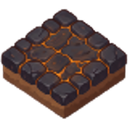
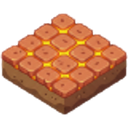
feat: cemetery tower grasp effect with hand animation and DoT HP bar
- Hand effect: translation from underground to surface (fixed scale, fixed
  mask clips below tile surface) instead of scaling/stretching
- Hand effect anchored to tile grid position, not enemy sprite
- HP bar now updates on DoT ticks via onEnemyDamaged callback
- Floating damage numbers shown on each DoT tick
- Volcano tile scale reduced to 0.75, tiles swapped (lava/obsidian)
- Asset size rules added to CLAUDE.md (256x256 towers, 128x128 tiles)

diff --git a/public/js/games/td/TDRenderer.js b/public/js/games/td/TDRenderer.js
@@ -91,8 +91,8 @@ export class TDRenderer {
     }
 
     async loadAssets() {
-        const enemyAssets = ['enemy_basic', 'enemy_fast', 'enemy_tank', 'enemy_boss', 'enemy_flying'];
-        const towerTypes = ['archer', 'cannon', 'ice', 'sniper', 'wind', 'cemetery'];
+        const enemyAssets = Object.keys(ENEMY_TYPES).map(t => `enemy_${t}`);
+        const towerTypes = Object.keys(TOWER_TYPES);
 
         // Load base enemy assets
         for (const name of enemyAssets) {
@@ -132,7 +132,7 @@ export class TDRenderer {
         } catch (e) { }
 
         const tileAssets = ['tile_grass', 'tile_path', 'castle', 'coin', 'heart', 'tree', 'tree_pine'];
-        const projAssets = ['proj_archer', 'proj_cannon', 'proj_ice', 'proj_sniper', 'proj_wind', 'proj_cemetery'];
+        const projAssets = ['proj_archer', 'proj_cannon', 'proj_ice', 'proj_sniper', 'proj_wind', 'proj_cemetery', 'hands_cemetery'];
         for (const name of [...tileAssets, ...projAssets]) {
             try {
                 const texture = await PIXI.Assets.load(`/images/td/${name}.png`);
@@ -411,8 +411,9 @@ export class TDRenderer {
             sprite.anchor.set(0.5, 0.85);
             const tRef = Math.max(TILE_WIDTH, TILE_HEIGHT);
             const tScale = (this.currentTheme && this.currentTheme.towerScale) || 1.0;
-            sprite.width = tRef * 1.1 * tScale;
-            sprite.height = tRef * 1.1 * tScale;
+            const displayScale = TOWER_TYPES[towerType]?.displayScale || 1.0;
+            sprite.width = tRef * 1.1 * tScale * displayScale;
+            sprite.height = tRef * 1.1 * tScale * displayScale;
             // Flip horizontally to compensate for mirrored iso projection
             sprite.scale.x *= -1;
             baseScaleX = sprite.scale.x;
@@ -815,45 +816,31 @@ export class TDRenderer {
         }
     }
 
-    createGraspBeam(tower, enemy) {
-        const s = this.mapScale;
-        const tIso = toIso(tower.x, tower.y);
-        const eIso = toIso(enemy.x, enemy.y);
-
-        const tx = this.offsetX + tIso.x * s;
-        const ty = this.offsetY + tIso.y * s - 30 * s;
-        const ex = this.offsetX + eIso.x * s;
-        const ey = this.offsetY + eIso.y * s;
-
-        // Main beam
-        const beam = new PIXI.Graphics();
-        beam.moveTo(tx, ty);
-        beam.lineTo(ex, ey);
-        beam.stroke({ width: 4 * s, color: 0x4ECDC4, alpha: 0.9 });
-
-        // Glow halo (wider, softer)
-        const glow = new PIXI.Graphics();
-        glow.moveTo(tx, ty);
-        glow.lineTo(ex, ey);
-        glow.stroke({ width: 10 * s, color: 0x7FFFD4, alpha: 0.35 });
-
-        beam.life = 0.9;
-        beam.isFlash = true;
-        glow.life = 0.9;
-        glow.isFlash = true;
-
-        this.app.stage.addChild(glow);
-        this.app.stage.addChild(beam);
-        this.particles.push(glow, beam);
-    }
-
-    createGraspEffect(enemy, duration) {
-        if (!this.assets['proj_cemetery']) return;
-        const tex = this.assets['proj_cemetery'];
+    createHandEffect(enemy, duration) {
+        if (!this.assets['hands_cemetery']) return;
+        const tex = this.assets['hands_cemetery'];
         const sprite = new PIXI.Sprite(tex);
-        sprite.anchor.set(0.5, 0.85);
-        sprite.scale.set(0);
-        sprite._enemy = enemy;
+        // Ancre en bas au centre : les mains montent depuis le sol
+        sprite.anchor.set(0.5, 1.0);
+        sprite._targetPx = TILE_HEIGHT * 0.55;
+        sprite._texW = tex.width || 256;
+        sprite.scale.x = sprite._targetPx / sprite._texW;
+        sprite.scale.y = 0;
+        // Position fixe sur la tuile (pas sur l'ennemi qui se déplace)
+        const iso = toIso(Math.round(enemy.x), Math.round(enemy.y));
+        sprite._isoX = iso.x;
+        sprite._isoY = iso.y + TILE_HEIGHT / 2;
+        sprite.x = sprite._isoX;
+        sprite.y = sprite._isoY;
+
+        // Masque fixe : cache tout ce qui est sous la surface de la tuile
+        const mask = new PIXI.Graphics();
+        mask.rect(sprite._isoX - TILE_WIDTH * 2, sprite._isoY - TILE_HEIGHT * 6, TILE_WIDTH * 4, TILE_HEIGHT * 6);
+        mask.fill(0xFFFFFF);
+        this.effectLayer.addChild(mask);
+        sprite.mask = mask;
+        sprite._graspMask = mask;
+
         sprite._duration = duration;
         sprite._born = performance.now();
         this.effectLayer.addChild(sprite);
@@ -868,28 +855,29 @@ export class TDRenderer {
 
             if (progress >= 1) {
                 this.effectLayer.removeChild(s);
+                if (s._graspMask) {
+                    this.effectLayer.removeChild(s._graspMask);
+                    s._graspMask.destroy();
+                }
                 s.destroy();
                 this.graspEffects.splice(i, 1);
                 continue;
             }
 
-            // Scale: pop up in first 15%, hold, shrink in last 15%
-            let scale;
-            if (progress < 0.15) scale = (progress / 0.15) * 0.7;
-            else if (progress > 0.85) scale = ((1 - progress) / 0.15) * 0.7;
-            else scale = 0.7;
+            // Emerge : monte en 20%, tient, redescend en 20%
+            let env;
+            if (progress < 0.2) env = progress / 0.2;
+            else if (progress > 0.8) env = (1 - progress) / 0.2;
+            else env = 1;
 
-            s.scale.set(scale * this.mapScale);
-            s.alpha = scale / 0.7;
+            const baseScale = s._targetPx / s._texW;
+            s.scale.set(baseScale);
+            s.alpha = Math.min(env * 2, 1);
 
-            // Follow enemy position
-            const iso = toIso(s._enemy.x, s._enemy.y);
-            s.x = this.offsetX + iso.x * this.mapScale;
-            s.y = this.offsetY + iso.y * this.mapScale;
-
-            // Subtle pulse
-            const pulse = 1 + Math.sin(now * 0.008) * 0.04;
-            s.scale.set(s.scale.x * pulse);
+            // Translation : les mains montent depuis sous le sol vers la surface
+            // env=0 → sprite enterré (y = isoY + targetPx), env=1 → sorti (y = isoY)
+            s.x = s._isoX;
+            s.y = s._isoY + s._targetPx * (1 - env);
         }
     }
 

diff --git a/public/js/games/td/TowerDefenseGame.js b/public/js/games/td/TowerDefenseGame.js
@@ -1,6 +1,6 @@
 import {
     GRID_WIDTH, GRID_HEIGHT,
-    TOWER_TYPES, SHOP_ITEMS, LEVELS,
+    TOWER_TYPES, TOWER_DISPLAY, SHOP_ITEMS, LEVELS,
     fromIso, getTowerUnlockedByWorld
 } from './tdConfig.js';
 import { TDRenderer } from './TDRenderer.js';
@@ -101,6 +101,11 @@ export class TowerDefenseGame {
             if (sourceTower) this.renderer.updateTowerXpBar(sourceTower);
         };
 
+        this.engine.onEnemyDamaged = (enemy, damage) => {
+            if (enemy.sprite) this.renderer.updateEnemyHpBar(enemy);
+            this.renderer.showFloatingDamage(enemy.x, enemy.y, damage, this.container);
+        };
+
         this.engine.onProjectileMissed = (proj) => {
             this.renderer.removeProjectileFromStage(proj);
         };
@@ -162,8 +167,7 @@ export class TowerDefenseGame {
 
         this.engine.onCemeteryGrasp = (tower, enemy, duration) => {
             this.renderer.animateTowerShot(tower);
-            this.renderer.createGraspBeam(tower, enemy);
-            this.renderer.createGraspEffect(enemy, duration);
+            this.renderer.createHandEffect(enemy, duration);
         };
 
         this.engine.onLevelChanged = (levelData) => {
@@ -273,11 +277,9 @@ export class TowerDefenseGame {
         const config = TOWER_TYPES[tower.type];
         const sellValue = Math.floor(config.cost * 0.6);
 
-        const icons = { archer: '🏹', cannon: '💣', ice: '❄', sniper: '🎯', wind: '🌀', cemetery: '👻' };
-        const names = { archer: 'Archer', cannon: 'Canon', ice: 'Glace', sniper: 'Sniper', wind: 'Eolienne', cemetery: 'Fantôme' };
-
+        const display = TOWER_DISPLAY[tower.type] || {};
         const lvlSuffix = tower.level > 1 ? ` Nv.${tower.level}` : '';
-        document.getElementById('tower-info-name').textContent = `${icons[tower.type]} ${names[tower.type]}${lvlSuffix}`;
+        document.getElementById('tower-info-name').textContent = `${display.icon} ${display.name}${lvlSuffix}`;
         document.getElementById('ti-dmg').textContent = tower.damage;
         document.getElementById('ti-range').textContent = tower.range.toFixed(1);
         document.getElementById('ti-cd').textContent = (tower.cooldown / 1000).toFixed(1) + 's';
@@ -348,8 +350,7 @@ export class TowerDefenseGame {
 
                 const info = document.getElementById('selection-info');
                 const config = TOWER_TYPES[this.selectedTower];
-                const names = { archer: 'Archer', cannon: 'Canon', ice: 'Glace', sniper: 'Sniper', wind: 'Eolienne', cemetery: 'Fantôme' };
-                const name = names[this.selectedTower] || this.selectedTower;
+                const name = TOWER_DISPLAY[this.selectedTower]?.name || this.selectedTower;
                 info.textContent = `${name} - Dégâts: ${config.damage} | Portée: ${config.range}`;
                 info.classList.add('visible');
                 setTimeout(() => info.classList.remove('visible'), 2000);
@@ -446,10 +447,9 @@ export class TowerDefenseGame {
     }
 
     showUnlockNotification(type) {
-        const names = { ice: 'Tour de Glace', wind: 'Tour Éolienne', cemetery: 'Tour Fantôme' };
-        const icons = { ice: '🧊', wind: '🌀', cemetery: '👻' };
-        const name = names[type] || type;
-        const icon = icons[type] || '🏆';
+        const display = TOWER_DISPLAY[type] || {};
+        const name = display.unlockName || display.name || type;
+        const icon = display.icon || '🏆';
 
         const notif = document.createElement('div');
         notif.className = 'unlock-notif';
@@ -561,17 +561,9 @@ export class TowerDefenseGame {
 
         // Set level to target - 1 so nextLevel() increments to the right one
         // But if jumping to level 0, we need to reset directly
-        this.engine.level = levelIndex;
-        this.engine.wave = 0;
-        this.engine.waveInProgress = false;
-        this.engine.enemies = [];
-        this.engine.projectiles = [];
-        this.engine.spawnQueue = [];
-        this.engine.towers = [];
-        this.engine.buffs = { damage: false, slow: false };
+        this.engine.resetGameState(levelIndex);
         this.engine.gold = 150;
         this.engine.health = 15;
-        this.engine.initLevel();
 
         this.renderer.setTheme(this.engine.currentLevelData);
         this.renderer.clearStage();

diff --git a/public/js/games/td/tdConfig.js b/public/js/games/td/tdConfig.js
@@ -9,7 +9,7 @@ export const TOWER_TYPES = {
     cannon: { cost: 100, damage: 55, range: 2.5, cooldown: 1300, speed: 28, color: 0xFF7F7F, splash: 1.2 },
     ice: { cost: 75, damage: 8, range: 2.5, cooldown: 900, speed: 36, color: 0x87CEEB, slow: 0.5, unlockedByWorld: 3 },
     sniper: { cost: 250, damage: 75, range: 4.5, cooldown: 2500, speed: 60, color: 0xE6E6FA },
-    cemetery: { cost: 100, damage: 25, range: 2.8, cooldown: 3500, speed: 34, color: 0x4ECDC4, grasp: true, graspDuration: 2500, graspDot: 8, unlockedByWorld: 1 },
+    cemetery: { cost: 100, damage: 25, range: 2.8, cooldown: 3500, speed: 34, color: 0x4ECDC4, grasp: true, graspDuration: 2500, graspDot: 8, unlockedByWorld: 1, displayScale: 1.25 },
     wind: { cost: 125, damage: 15, range: 2.5, cooldown: 1200, speed: 38, color: 0xA8E6CF, pushback: 0.8, unlockedByWorld: 4 }
 };
 
@@ -110,7 +110,7 @@ export const LEVELS = [
         theme: {
             id: 'volcano',
             castleScale: 1.4,
-            tileScale: 0.85,
+            tileScale: 0.75,
             towerScale: 0.85,
             enemyScale: 0.85,
             enemyScales: { tank: 1.3, boss: 1.4 },
@@ -259,6 +259,15 @@ export function resolvePaths(path) {
 // Backward-compatible aliases (level 0)
 export const PATH = LEVELS[0].path;
 export const WAVES = LEVELS[0].waves;
+
+export const TOWER_DISPLAY = {
+    archer:   { icon: '🏹', name: 'Archer',    unlockName: null },
+    cannon:   { icon: '💣', name: 'Canon',     unlockName: null },
+    ice:      { icon: '❄', name: 'Glace',     unlockName: 'Tour de Glace' },
+    sniper:   { icon: '🎯', name: 'Sniper',    unlockName: null },
+    cemetery: { icon: '👻', name: 'Fantôme',   unlockName: 'Tour Fantôme' },
+    wind:     { icon: '🌀', name: 'Eolienne',  unlockName: 'Tour Éolienne' },
+};
 
 export const SHOP_ITEMS = {
     heart: { cost: 50, name: '+1 Vie' },

diff --git a/public/js/games/td/TDEngine.js b/public/js/games/td/TDEngine.js
@@ -48,6 +48,7 @@ export class TDEngine {
         this.onTowerLevelUp = null;      // (tower)
         this.onWindPulse = null;         // (tower, targets)
         this.onCemeteryGrasp = null;     // (tower, enemy, duration)
+        this.onEnemyDamaged = null;      // (enemy, damage)
         this.onLevelChanged = null;      // (levelData)
     }
 
@@ -312,6 +313,7 @@ export class TDEngine {
                 if (now >= enemy.graspDotNext) {
                     enemy.hp -= enemy.graspDotDmg;
                     enemy.graspDotNext = now + 500;
+                    if (this.onEnemyDamaged) this.onEnemyDamaged(enemy, enemy.graspDotDmg);
                     if (enemy.hp <= 0) {
                         this.gold += enemy.reward;
                         this.enemies.splice(i, 1);
@@ -396,6 +398,7 @@ export class TDEngine {
                 const dist = Math.sqrt(dx * dx + dy * dy);
 
                 if (dist <= tower.range && enemy.pathIndex > bestProgress) {
+                    if (tower.grasp && enemy.flying) continue; // cemetery can't grab flying
                     bestTarget = enemy;
                     bestProgress = enemy.pathIndex;
                 }
@@ -645,8 +648,8 @@ export class TDEngine {
         return true;
     }
 
-    nextLevel() {
-        this.level++;
+    resetGameState(levelIndex) {
+        this.level = levelIndex;
         this.wave = 0;
         this.waveInProgress = false;
         this.enemies = [];
@@ -655,6 +658,10 @@ export class TDEngine {
         this.towers = [];
         this.buffs = { damage: false, slow: false };
         this.initLevel();
+    }
+
+    nextLevel() {
+        this.resetGameState(this.level + 1);
         if (this.onLevelChanged) this.onLevelChanged(this.currentLevelData);
     }
 

diff --git a/CLAUDE.md b/CLAUDE.md
@@ -204,6 +204,12 @@ public/images/td/
 └── icon_*.png                                      # HUD icons
 ```
 
+**Règles pour les assets image :**
+- **Toujours redimensionner** avant d'intégrer dans le projet. Les images AI générées (Gemini) peuvent faire 1024–2048px — c'est beaucoup trop pour un sprite de jeu.
+- Tailles cibles : `256×256` pour tours/ennemis/effets, `128×128` pour tuiles, `512×512` max pour décors larges
+- Utiliser `rembg` (Python) pour supprimer les fonds + `PIL.Image.resize()` pour redimensionner
+- Ne jamais committer un asset > 512px sans raison explicite
+
 ### Adding a New Tower
 1. **tdConfig.js**: Add entry to `TOWER_TYPES` with cost, damage, range, cooldown, speed, color. Optional: `splash`, `slow`, `pushback`, `aoe`, `unlockCost`, `availableFromLevel`
 2. **TDEngine.js**: If special behavior (like AoE), add handling in `updateTowers()`. Add callback if needed
